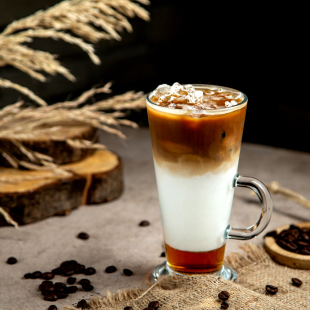
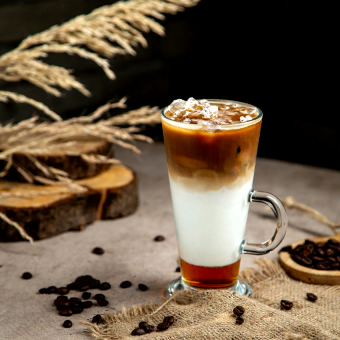
fix: fix styles for menu

diff --git a/coffee-house/pages/menu/menu.html b/coffee-house/pages/menu/menu.html
@@ -64,7 +64,9 @@
     <section class="menu__items">
       <div class="menus__container">
         <div class="menu__item">
-          <img src="../../assets/menu/coffee-1.png" alt="Menu-Item">
+          <div class="img__container">
+            <img src="../../assets/menu/coffee-1.png" class="img__item" alt="Menu-Item">
+          </div>
           <div class="menu__item-inf">
             <h3>Irish coffee</h3>
             <p>Fragrant black coffee with Jameson Irish whiskey and whipped milk</p>
@@ -72,7 +74,9 @@
           </div>
         </div>
         <div class="menu__item">
-          <img src="../../assets/menu/coffee-2.png" alt="Menu-Item">
+          <div class="img__container">
+            <img src="../../assets/menu/coffee-2.jpg" class="img__item" alt="Menu-Item">
+          </div>
           <div class="menu__item-inf">
             <div class="menu__item-title">
               <h3>Kahlua coffee</h3>
@@ -82,7 +86,9 @@
           </div>
         </div>
         <div class="menu__item">
-          <img src="../../assets/menu/coffee-3.png" alt="Menu-Item">
+          <div class="img__container">
+            <img src="../../assets/menu/coffee-3.png" class="img__item" alt="Menu-Item">
+          </div>
           <div class="menu__item-inf">
             <div class="menu__item-title">
             <h3>Honey raf</h3>
@@ -92,7 +98,9 @@
           </div>
         </div>
         <div class="menu__item">
-          <img src="../../assets/menu/coffee-4.png" alt="Menu-Item">
+          <div class="img__container">
+            <img src="../../assets/menu/coffee-4.png" class="img__item" alt="Menu-Item">
+          </div>
           <div class="menu__item-inf">
             <div class="menu__item-title">
             <h3>Ice cappuccino</h3>
@@ -102,7 +110,9 @@
           </div>
         </div>
         <div class="menu__item">
-          <img src="../../assets/menu/coffee-5.png" alt="Menu-Item">
+          <div class="img__container">
+            <img src="../../assets/menu/coffee-5.png" class="img__item" alt="Menu-Item">
+          </div>
           <div class="menu__item-inf">
             <div class="menu__item-title">
             <h3>Espresso</h3>
@@ -112,7 +122,9 @@
           </div>
         </div>
         <div class="menu__item">
-          <img src="../../assets/menu/coffee-6.png" alt="Menu-Item">
+          <div class="img__container">
+            <img src="../../assets/menu/coffee-6.png" class="img__item" alt="Menu-Item">
+          </div>
           <div class="menu__item-inf">
             <div class="menu__item-title">
             <h3>Latte</h3>
@@ -122,7 +134,9 @@
           </div>
         </div>
         <div class="menu__item">
-          <img src="../../assets/menu/coffee-7.png" alt="Menu-Item">
+          <div class="img__container">
+            <img src="../../assets/menu/coffee-7.png" class="img__item" alt="Menu-Item">
+          </div>
           <div class="menu__item-inf">
             <div class="menu__item-title">
             <h3>Latte macchiato</h3>
@@ -132,7 +146,9 @@
           </div>
         </div>
         <div class="menu__item">
-          <img src="../../assets/menu/coffee-8.png" alt="Menu-Item">
+          <div class="img__container">
+            <img src="../../assets/menu/coffee-8.png" class="img__item" alt="Menu-Item">
+          </div>
           <div class="menu__item-inf">
             <div class="menu__item-title">
             <h3>Coffee with cognac</h3>

diff --git a/coffee-house/pages/menu/style.css b/coffee-house/pages/menu/style.css
@@ -255,6 +255,23 @@ background-color: #E1D4C9;
   border-radius: 40px;
 }
 
+.img__container {
+  width: 309px;
+  height: 309px;
+  overflow: hidden;
+  border-radius: 40px;
+}
+
+.img__item {
+  margin-top: -19px;
+  margin-left: -16px;
+}
+
+.menu__item:hover img {
+  transform: scale(0.92);
+  transition: ease 0.5s;
+}
+
 .menu__item img {
   border-radius: 40px;
 }
